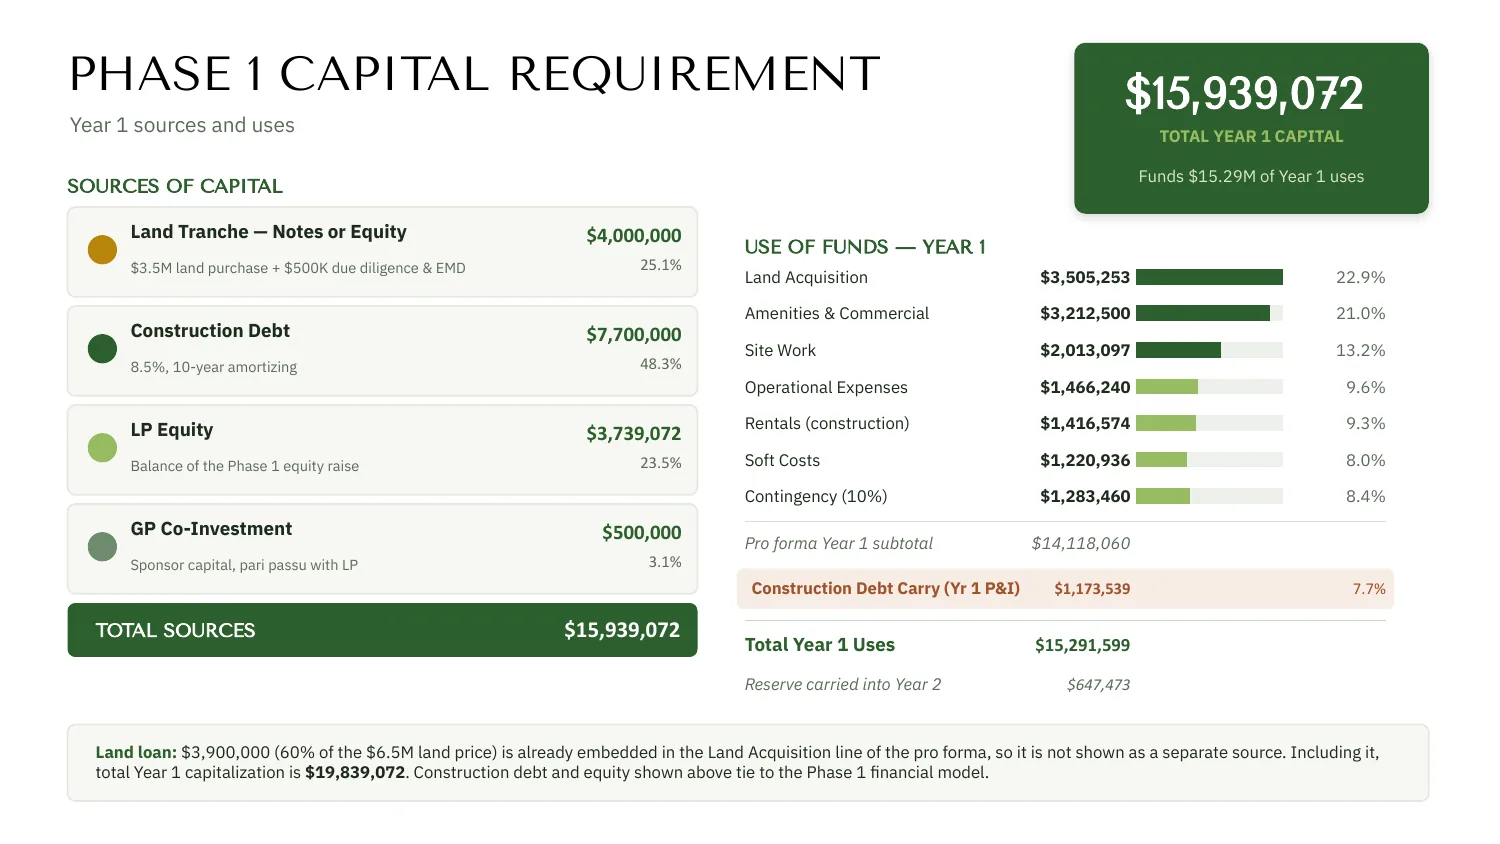
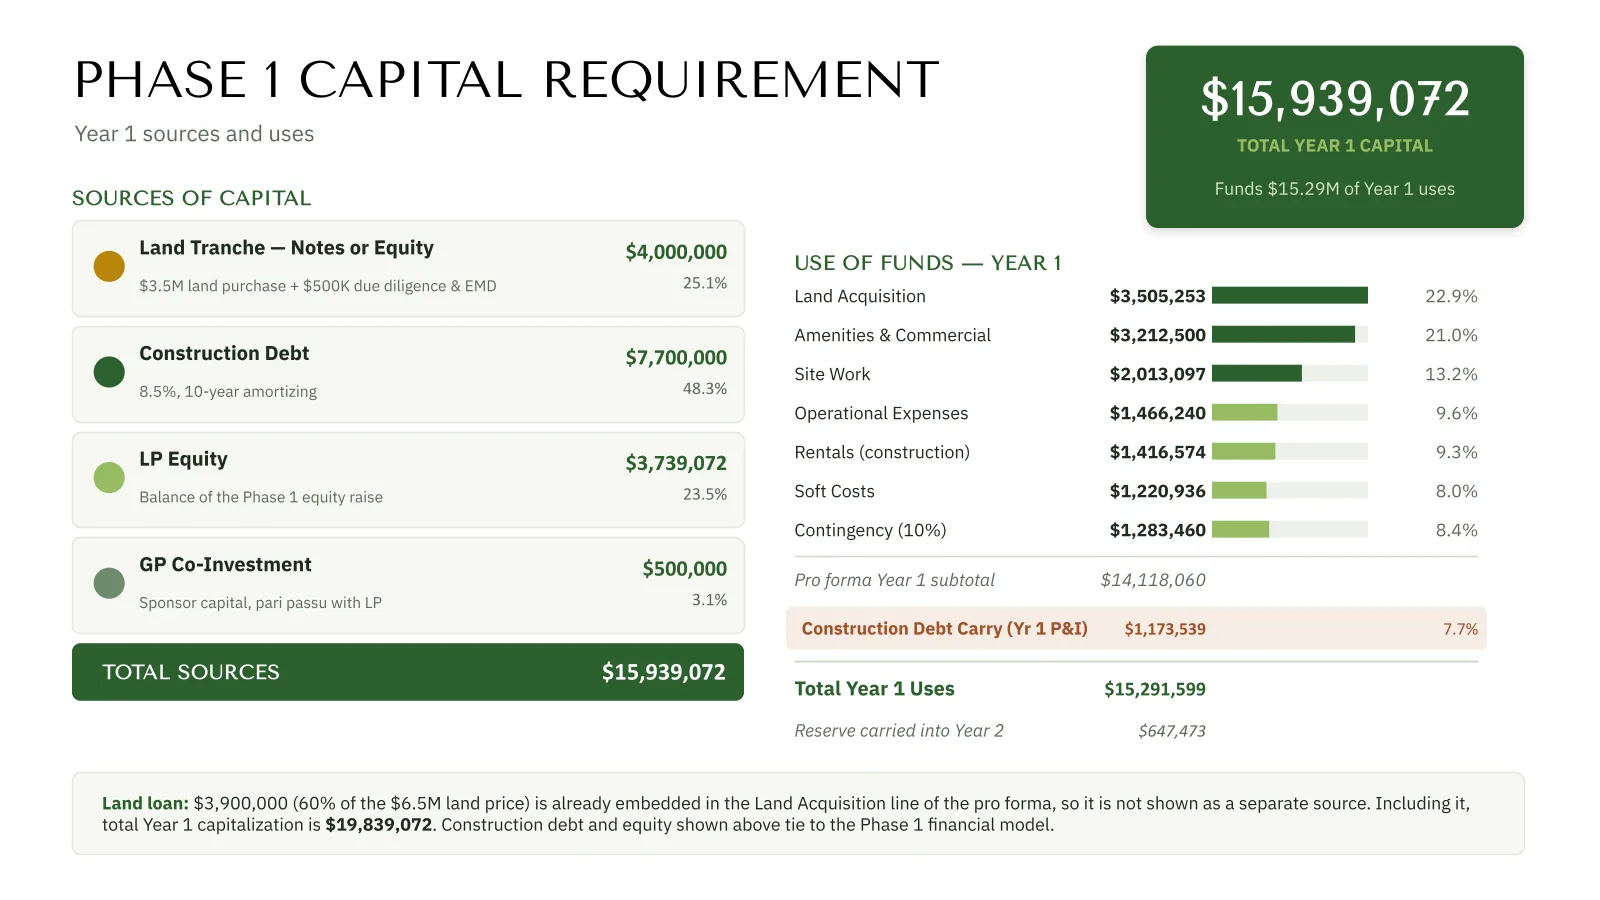
Deck: re-export from the updated presentation (slides 12-14, 21-22, Lance)
Re-pulled all 24 slides from the current Google Slides deck via the Slides API
thumbnail endpoint — Drive's PDF export 403s because native-file export is
capped at 10MB and the deck is 34MB. Slides now render at 1600x900 (up from
1500x844), 3.25MB total. Viewer aspect ratio updated to match.

Includes Kelly's edits: revised slides 12-14, the combined 10-person team slide,
and Lance Stukaloff's corrected description ($850M arranged, was $750M).

diff --git a/src/components/deck/DeckGate.tsx b/src/components/deck/DeckGate.tsx
@@ -133,7 +133,7 @@ export function DeckGate({
           <div
             className="relative w-full select-none overflow-hidden rounded-lg bg-black shadow-2xl"
             onContextMenu={e => e.preventDefault()}
-            style={{ aspectRatio: '1500 / 844' }}
+            style={{ aspectRatio: '1600 / 900' }}
           >
             {/* eslint-disable-next-line @next/next/no-img-element */}
             <img
